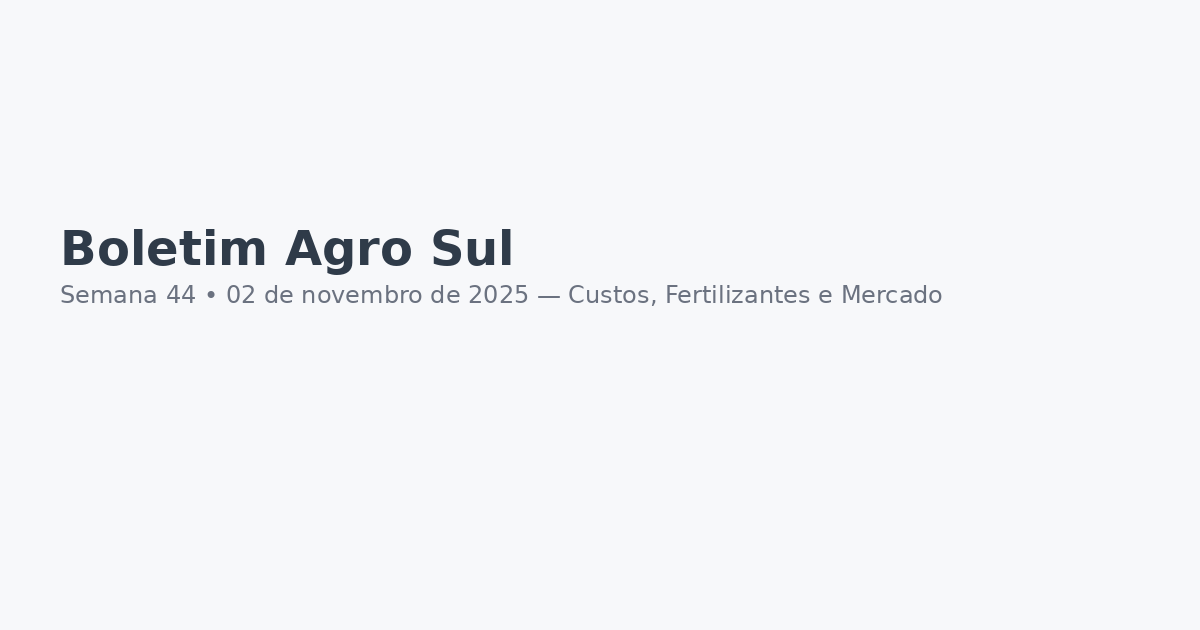
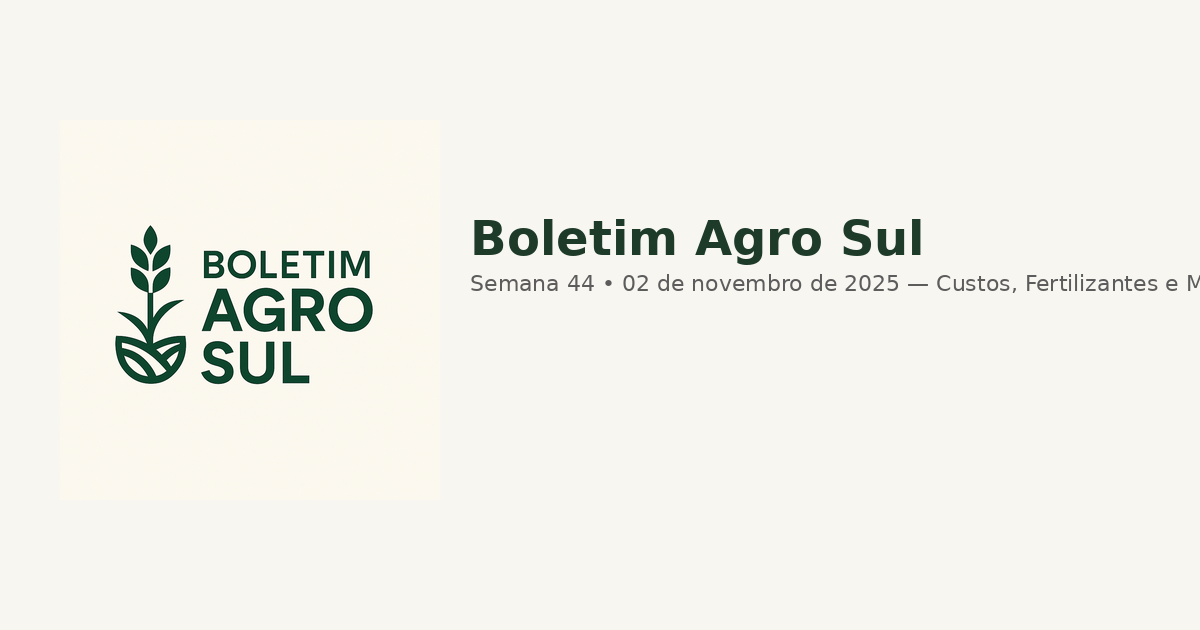
Add files via upload

Changed region(s): [[0.0308, 0.3317, 1.0, 0.6333]]

diff --git a/css/styles.css b/css/styles.css
@@ -1,22 +1,37 @@
 
 :root{
-  --bg: #F7F8FA; --surface:#FFFFFF; --text:#2F3B49; --muted:#6B7280; --brand:#3E4A61; --accent:#47A8F5; --success:#2F855A; --danger:#F24C4E;
+  --bg: #F8F6F1;
+  --surface: #FFFFFF;
+  --brand: #1E3A29; /* verde institucional */
+  --brand-2: #47624F; /* secundario */
+  --text: #1E1E1E;
+  --muted: #5C5C5C;
+  --accent: #A8D8B9;
+  --border: #E3E0D9;
+  --danger: #F24C4E;
 }
-*{box-sizing:border-box} html,body{height:100%;margin:0;font-family:Inter,system-ui,-apple-system,'Segoe UI',Roboto,Arial}
+*{box-sizing:border-box}
+html,body{height:100%;margin:0;font-family:Inter, 'Montserrat', system-ui, -apple-system, 'Segoe UI', Roboto, Arial;}
 body{background:var(--bg);color:var(--text);line-height:1.6}
 .container{max-width:1100px;margin:0 auto;padding:28px}
-.header{background:var(--surface);padding:26px;border-radius:10px;display:flex;align-items:center;gap:18px;box-shadow:0 6px 18px rgba(16,24,40,0.04)}
-.header img{width:140px;height:auto}
+.header{background:var(--surface);padding:28px;border-radius:12px;display:flex;align-items:center;gap:20px;box-shadow:0 8px 24px rgba(16,24,40,0.06)}
+.header img{width:150px;height:auto}
 .header-title{flex:1}
-.h1{font-size:22px;color:var(--brand);margin:0;font-weight:700}
+.h1{font-size:24px;color:var(--brand);margin:0;font-weight:800;letter-spacing:0.4px}
 .h2{font-size:13px;color:var(--muted);margin-top:6px}
-.cta{background:var(--accent);color:white;padding:10px 14px;border-radius:8px;text-decoration:none;font-weight:600}
-.grid{display:grid;grid-template-columns:2fr 1fr;gap:20px;margin-top:20px}
-.card{background:var(--surface);padding:18px;border-radius:10px;box-shadow:0 6px 18px rgba(16,24,40,0.04)}
-.section-title{font-size:18px;color:var(--brand);margin-bottom:8px;font-weight:700}
-.analysis-content h2{font-size:20px;margin-top:14px;color:var(--brand);border-bottom:3px solid var(--accent);padding-bottom:6px}
+.cta{background:var(--brand);color:white;padding:10px 16px;border-radius:10px;text-decoration:none;font-weight:700;display:inline-block}
+.grid{display:grid;grid-template-columns:2fr 1fr;gap:22px;margin-top:22px}
+.card{background:var(--surface);padding:20px;border-radius:12px;box-shadow:0 6px 20px rgba(16,24,40,0.04);border:1px solid var(--border)}
+.section-title{font-size:18px;color:var(--brand);margin-bottom:10px;font-weight:700}
+.analysis-content h2{font-size:20px;margin-top:16px;color:var(--brand);border-bottom:3px solid var(--accent);padding-bottom:8px}
 .table{width:100%;border-collapse:collapse;margin-top:12px}
-.table th{background:#f3f4f6;padding:8px;text-align:left;color:var(--muted);font-size:13px}
-.table td{padding:8px;border-top:1px solid #eef2f7}
+.table th{background:#f7f6f3;padding:10px;text-align:left;color:var(--muted);font-size:13px}
+.table td{padding:10px;border-top:1px solid var(--border)}
 .footer{margin-top:28px;text-align:center;font-size:13px;color:var(--muted)}
-@media (max-width:900px){.grid{grid-template-columns:1fr}.header{flex-direction:column;align-items:flex-start}.header img{width:120px}}
+
+/* responsive */
+@media (max-width:900px){
+  .grid{grid-template-columns:1fr}
+  .header{flex-direction:column;align-items:flex-start}
+  .header img{width:130px}
+}

diff --git a/js/charts.js b/js/charts.js
@@ -3,8 +3,8 @@ function initCharts(){
   const loadChart = (id, type, data, options)=>{
     const el = document.getElementById(id); if(!el) return; const ctx = el.getContext('2d'); return new Chart(ctx, {type, data, options});
   };
-  const commonOptions = {responsive:true,maintainAspectRatio:false,plugins:{legend:{position:'bottom'}, tooltip:{backgroundColor:'#fff',titleColor:'#2F3B49',bodyColor:'#2F3B49',borderColor:'#e5e7eb',borderWidth:1}}};
-  loadChart('fertilizerChart','bar',{labels:['Uréia (N)','MAP (P)','KCl (K)'],datasets:[{label:'USD/ton (CFR Brasil)',data:[422,718,362],backgroundColor:['#47A8F5','#F7C548','#A8D8B9']}]}, Object.assign({},commonOptions,{indexAxis:'y'}));
-  loadChart('inadimplenciaChart','doughnut',{labels:['Crédito Livre','Crédito Geral'],datasets:[{data:[9.35,5.14],backgroundColor:['#F24C4E','#47A8F5']}]}, commonOptions);
+  const commonOptions = {responsive:true,maintainAspectRatio:false,plugins:{legend:{position:'bottom'}, tooltip:{backgroundColor:'#fff',titleColor:'#1E3A29',bodyColor:'#1E3A29',borderColor:'#e5e7eb',borderWidth:1}}};
+  loadChart('fertilizerChart','bar',{labels:['Uréia (N)','MAP (P)','KCl (K)'],datasets:[{label:'USD/ton (CFR Brasil)',data:[422,718,362],backgroundColor:['#1E3A29','#47624F','#A8D8B9']}]}, Object.assign({},commonOptions,{indexAxis:'y'}));
+  loadChart('inadimplenciaChart','doughnut',{labels:['Crédito Livre','Crédito Geral'],datasets:[{data:[9.35,5.14],backgroundColor:['#F24C4E','#1E3A29']}]}, commonOptions);
 }
 document.addEventListener('DOMContentLoaded', function(){ if(typeof Chart === 'undefined'){ const s=document.createElement('script'); s.src='https://cdn.jsdelivr.net/npm/chart.js'; s.onload=initCharts; document.head.appendChild(s);} else { initCharts(); } });

diff --git a/index.html b/index.html
@@ -9,24 +9,20 @@
   <meta property="og:description" content="Custos de fertilizantes, defensivos, preços de grãos e recomendações práticas para produtores do Sul.">
   <meta property="og:image" content="assets/og-boletim-semana44.png">
   <link rel="icon" href="assets/favicon-32.png" sizes="32x32">
-  <link href="https://fonts.googleapis.com/css2?family=Inter:wght@400;600;700&display=swap" rel="stylesheet">
+  <link href="https://fonts.googleapis.com/css2?family=Montserrat:wght@400;600;700&display=swap" rel="stylesheet">
   <link rel="stylesheet" href="css/styles.css">
   <script defer src="js/charts.js"></script>
 </head>
 <body>
   <div class="container">
     <header class="header" role="banner">
-      <img src="assets/logo.svg" alt="Boletim Agro Sul - logo" />
+      <img src="assets/logo.png" alt="Boletim Agro Sul - logo" />
       <div class="header-title">
         <h1 class="h1">Boletim Agro Sul</h1>
         <p class="h2">Edição semanal • Semana 44 — 02 de novembro de 2025</p>
       </div>
       <div class="actions">
-        <!-- simple Formspree subscription form placeholder -->
-        <form action="https://formspree.io/f/your_form_id" method="POST" style="display:flex;gap:8px;align-items:center">
-          <input type="email" name="email" placeholder="Seu e-mail" aria-label="Seu e-mail" required style="padding:8px;border-radius:6px;border:1px solid #e6eef6">
-          <button class="cta" type="submit">Assine por e-mail</button>
-        </form>
+        <a class="cta" href="#subscribe">Assine por e-mail</a>
       </div>
     </header>
 

diff --git a/README.md b/README.md
@@ -1,19 +1,17 @@
+Boletim Agro Sul — Visual v2 (alinhado ao logo enviado)
 
-Boletim Agro Sul - Projeto de Site (Template)
-============================================
+Conteúdo:
+- index.html (novo visual)
+- css/styles.css (nova paleta alinhada ao logo)
+- js/charts.js (config Chart.js)
+- assets/logo.png (logo fornecido)
+- assets/favicon-32.png, assets/og-boletim-semana44.png
+- .nojekyll, .github/workflows/deploy-pages.yml
 
-Conteúdo pronto para upload em um repositório GitHub / Netlify / GitHub Pages.
+Instruções de uso:
+1. Faça backup do repositório atual.
+2. Crie branch 'ui-refresh' no repositório e copie estes arquivos para a raiz.
+3. Commit e push; abra PR para 'main' e revise.
+4. Após merge, o GitHub Pages (ou workflow) publicará a versão atualizada.
 
-Estrutura:
-- index.html           -> página principal (conteúdo editorial + gráficos)
-- assets/logo.svg      -> logo oficial (SVG)
-- css/styles.css       -> variáveis de cor e estilos base
-- js/charts.js         -> inicialização de gráficos (usa Chart.js CDN)
-- sample_data.json     -> exemplo de dados usado no boletim
-
-Como usar:
-1) Faça upload desta pasta para um repositório GitHub.
-2) Habilite GitHub Pages (Settings -> Pages) apontando para branch main (root).
-3) Se quiser deploy automático, mantenha a branch 'main' e o workflow em .github/workflows.
-
-Licença: Arquivo de exemplo; use conforme desejar. 
+Formulário de assinatura: remova ou substitua o placeholder no index.html (Formspree ID).
